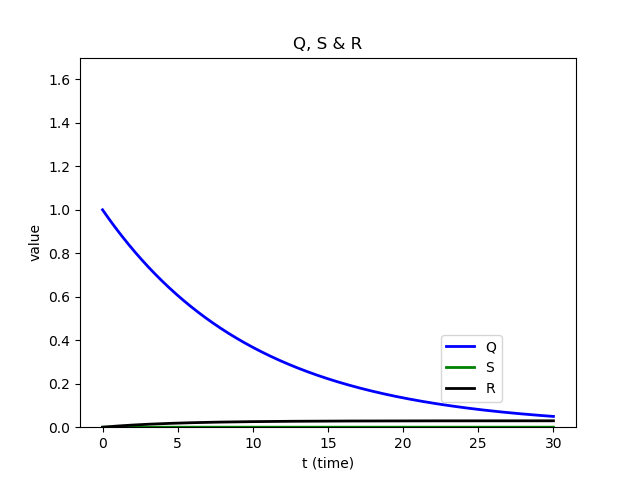
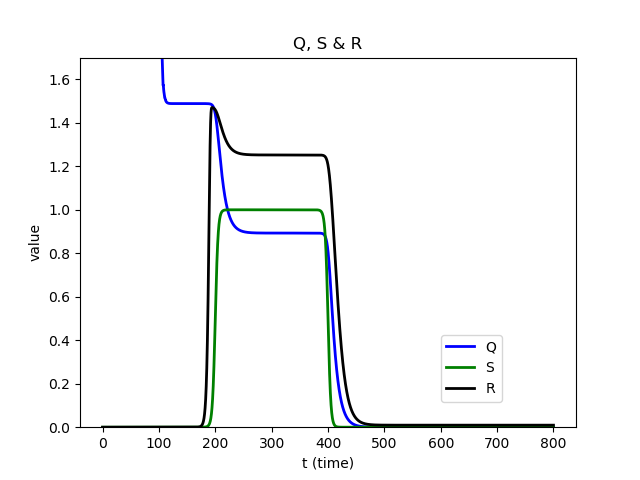
gg

diff --git a/angiogenesis/Chemotaxis_paradox/LEGI Ultrasensitive model/picture_1d.py b/angiogenesis/Chemotaxis_paradox/LEGI Ultrasensitive model/picture_1d.py
@@ -17,6 +17,15 @@ def pic_1d(coef,set,sol):
         
     rr = numpy.linspace(0,1.7)
     
+    sol['R_h']=[]
+    r_s = numpy.linspace(0,5)
+    for i in r_s:
+        if coef['LEGI'] == 'basic':
+            R__h = coef['k_i']/coef['k_a']*i/(coef['R_o']-i)
+        elif coef['LEGI'] == 'ultrasensitive':
+            R__h = coef['k_i']/coef['k_a']*i/(coef['R_o']-i)*(coef['R_o']-i+coef['K_A'])/(i+coef['K_I'])
+        sol['R_h'].append(R__h)
+    
 
     if set['k'] % 1 == 0:#set['t'] >= set['T']:  
         '''Chemotaxis velocity analysis'''        
@@ -187,11 +196,12 @@ def pic_1d(coef,set,sol):
         axes = plt.gca()
         plt.title('%s' % ('Q-R'))
         plt.plot(sol['Ki'], sol['Q'], 'r', linewidth=2.0)
+        plt.plot(r_s, sol['R_h'], 'b','-', linewidth=2.0)
         plt.legend(bbox_to_anchor=(0.85, 0.25), loc=0, borderaxespad=0.)
         plt.ylabel('Q=A/I')
         plt.xlabel('R')
         plt.ylim(-0.05,2) # -0.05
-        plt.xlim(-0.05,2)
+        plt.xlim(-0.05,5)
         flag = 'Qr=%s' % str(sol['p_3']) 
         plt.savefig(results_dir +"%s.png" % flag)
         plt.close()

diff --git a/angiogenesis/Chemotaxis_paradox/LEGI Ultrasensitive model/coef_setting.py b/angiogenesis/Chemotaxis_paradox/LEGI Ultrasensitive model/coef_setting.py
@@ -15,7 +15,7 @@ def declare_coef(): #1
     
     #kinetics
     ff = 1
-    coef['k_a'] = ff*3.3
+    coef['k_a'] = ff*5#3.3 #5
     coef['l_a'] = ff*0.2 #0.2   
 #     coef['teta_a'] = ff*10**(-3)
     coef['k_i'] = ff*2.8
@@ -39,9 +39,9 @@ def declare_coef(): #1
     
     '''Spatial and Temporal Meshes Number'''
     ##set dictionaries (fixed: never change)
-    set['T'] = 30 + 0.001 #second #100 #300 #1500
+    set['T'] = 800 + 0.001 #second #100 #300 # 800
     set['delay1'] =200 #5 #90
-    set['delay2'] =350
+    set['delay2'] =400
     set['Nt'] = 1000000
     set['dt'] = 0.01
        

diff --git a/angiogenesis/Chemotaxis_paradox/LEGI Ultrasensitive model/init_1d.py b/angiogenesis/Chemotaxis_paradox/LEGI Ultrasensitive model/init_1d.py
@@ -4,11 +4,11 @@ import math as m
 def init_1d_(coef,set,sol): #2.1.1
     sol['c'] = [0]#coef['A_c']*m.exp(-(coef['vel']*0-set['delay'])**2/coef['vari'])]
     
-    sol['A'] = [0.001]
-    sol['I'] = [0.001]
+    sol['A'] = [0]
+    sol['I'] = [0]
     sol['Ki'] = [0]
-    sol['Q'] = [sol['A'][-1]/sol['I'][-1]]
-#     sol['Q'] = [coef['k_a']/coef['k_i']]
+#     sol['Q'] = [sol['A'][-1]/sol['I'][-1]]
+    sol['Q'] = [coef['k_a']/coef['k_i']]
     sol['Qr'] = [0]
     
     sol['F_Ki'] = [0]

diff --git a/angiogenesis/Chemotaxis_paradox/LEGI Ultrasensitive model/solve_system_1d.py b/angiogenesis/Chemotaxis_paradox/LEGI Ultrasensitive model/solve_system_1d.py
@@ -3,7 +3,7 @@ import math as m
 
 def c_kinetic_(coef, set, sol, c_o, A_o, I_o, Ki_o):              
     if coef['C_prof'] == 'exp':
-        C_ = coef['A_c']*m.exp(-(coef['vel']*set['dt']*set['k']-set['delay'])**2/coef['vari']) #exponentially
+        C_ = coef['A_c']*m.exp(-(coef['vel']*set['dt']*set['k']-set['delay1'])**2/coef['vari']) #exponentially
     elif coef['C_prof'] == 'step':
         if set['t'] > 60 and set['t'] < 180:
             C_ = 1
